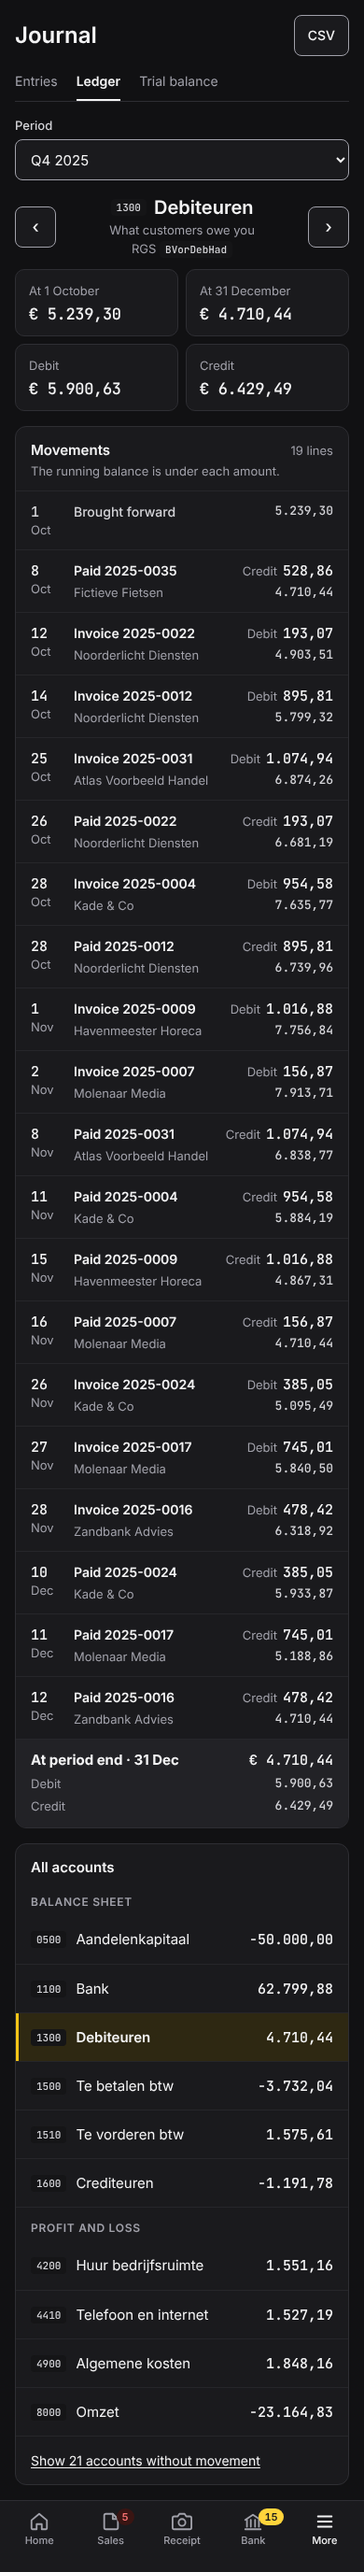
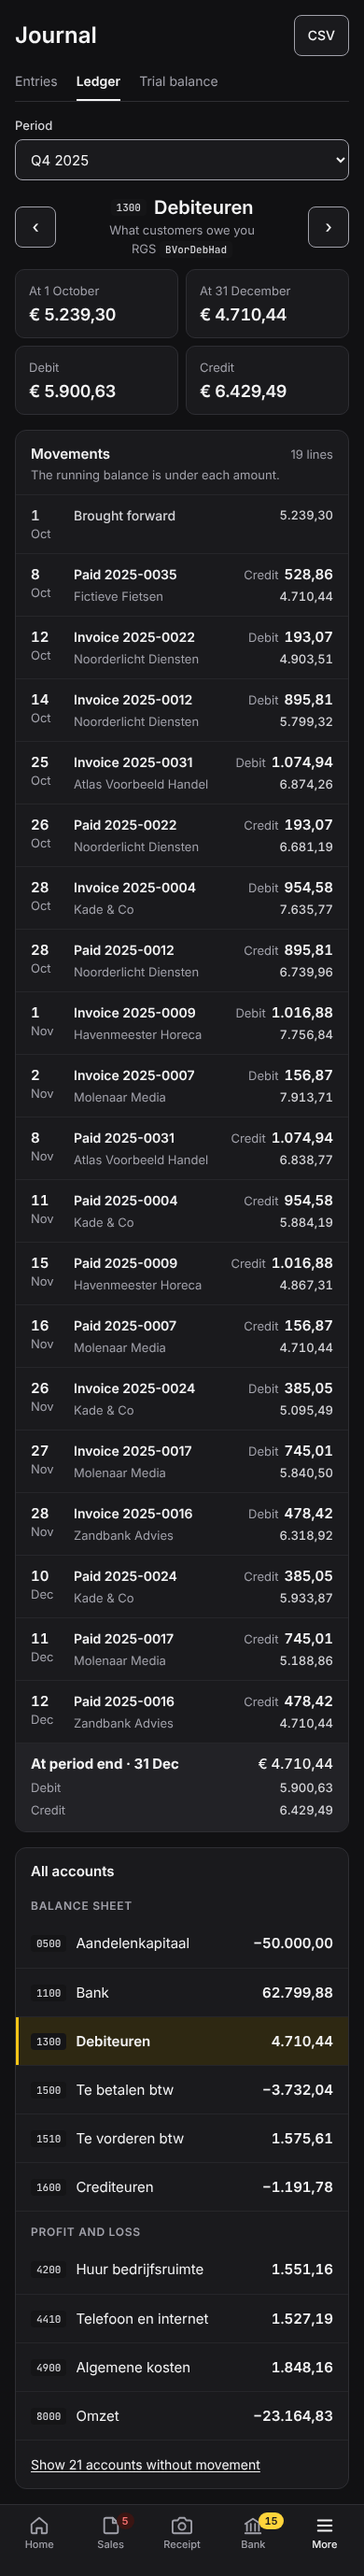
Design #145: Inter tabular amounts on phone, unclipped account names
Phone amounts on PhoneJournal, PhoneEntryNew and PhoneLedger switch from
JetBrains Mono to Inter with tabular figures (k-num nw, as on PhoneCosts
and PhoneBillNew), decided via CoS on 2 Nov. JetBrains Mono stays for
codes only. JournalDark's entry panel lets account names wrap to a second
line, so 1500 Te betalen omzetbelasting is no longer cut off. Re-shot the
nine PNGs (no QA warnings) and updated DERIVED.md and the PhoneLedger
canvas heights.

Refs #145, Refs #140

diff --git a/design/redesign-2026-10/screens/PhoneLedger.dc.html b/design/redesign-2026-10/screens/PhoneLedger.dc.html
@@ -18,7 +18,8 @@
   Takes `theme`; PhoneLedgerDark.dc.html sets dark.
   The tab bar is sticky, so it stays at the bottom of the viewport as the page scrolls.
   A11y deviations (#107 decision 4): control borders on --ink-muted (3:1 or more), 44px targets,
-  no key hints on phone, no ink-faint, amounts in JetBrains Mono and never wrapped,
+  no key hints on phone, no ink-faint, amounts in Inter tabular figures (k-num, as on
+  PhoneCosts) and never wrapped; JetBrains Mono only for codes and hashes,
   self-hosted fonts.
 -->
 <x-dc>
@@ -34,17 +35,17 @@ a{color:var(--ink)}
 .k-phone .k-input{height:44px;font-size:15px}
 .k-phone .k-kbd,.k-phone .k-chord,.k-phone .k-hints{display:none}
 .nw{white-space:nowrap}
-.amt{font:500 15px/20px var(--font-mono);white-space:nowrap;text-align:right}
-.amt-sm{font:500 13px/18px var(--font-mono);white-space:nowrap;color:var(--ink-2)}
+.amt{font-size:15px;line-height:20px;font-weight:600;text-align:right}
+.amt-sm{font-size:13px;line-height:18px;font-weight:500;color:var(--ink-2)}
 .lbl{font-size:13px;line-height:18px;color:var(--ink-muted);white-space:nowrap}
 .ptabs{gap:20px}
 .ptabs .k-tab{min-height:44px;min-width:44px;justify-content:center;box-sizing:border-box;white-space:nowrap}
 .nav-btn{width:44px;height:44px;padding:0;justify-content:center;flex:none;font-size:18px}
 .st{padding:12px 14px;gap:4px;border-radius:var(--radius-lg)}
-.st .k-stat-value{font:500 17px/22px var(--font-mono);white-space:nowrap}
+.st .k-stat-value{font-size:18px;line-height:24px;white-space:nowrap}
 .mv{display:flex;align-items:flex-start;gap:12px;padding:12px 16px;border-top:1px solid var(--line-soft);background:var(--surface);text-decoration:none;color:var(--ink);min-height:60px;box-sizing:border-box}
 .mv-date{width:34px;flex:none;display:flex;flex-direction:column;align-items:flex-start}
-.mv-date b{font:500 15px/20px var(--font-mono)}
+.mv-date b{font-size:15px;line-height:20px;font-weight:600;font-variant-numeric:tabular-nums}
 .mv-main{flex:1;min-width:0;display:flex;flex-direction:column;gap:4px}
 .mv-main strong{font-size:14px;line-height:20px;font-weight:600;white-space:nowrap;overflow:hidden;text-overflow:ellipsis}
 .mv-sub{display:flex;align-items:center;gap:6px;font-size:13px;line-height:18px;color:var(--ink-muted);min-width:0}
@@ -103,19 +104,19 @@ a{color:var(--ink)}
       <div class="mv" style="color: var(--ink-2);">
         <span class="mv-date"><b>1</b><span class="lbl">Oct</span></span>
         <span class="mv-main"><strong style="font-weight: 500;">Brought forward</strong></span>
-        <span class="mv-side"><span class="amt-sm">{{openF}}</span></span>
+        <span class="mv-side"><span class="k-num nw amt-sm">{{openF}}</span></span>
       </div>
       <sc-for list="{{lines}}" as="l" hint-placeholder-count="19">
         <a href="PhoneJournal.dc.html" class="mv">
           <span class="mv-date"><b>{{l.day}}</b><span class="lbl">{{l.mon}}</span></span>
           <span class="mv-main"><strong>{{l.what}}</strong><span class="mv-sub"><span>{{l.who}}</span></span></span>
-          <span class="mv-side"><span class="pair"><span class="lbl">{{l.side}}</span><span class="amt">{{l.amtF}}</span></span><span class="amt-sm">{{l.balF}}</span></span>
+          <span class="mv-side"><span class="pair"><span class="lbl">{{l.side}}</span><span class="k-num nw amt">{{l.amtF}}</span></span><span class="k-num nw amt-sm">{{l.balF}}</span></span>
         </a>
       </sc-for>
       <div style="padding: 12px 16px 14px; border-top: 1px solid var(--line-soft); background: var(--surface-hover); display: flex; flex-direction: column; gap: 6px;">
-        <div style="display: flex; justify-content: space-between; gap: 12px;"><strong style="font-size: 15px;">At period end · <span class="nw">31 Dec</span></strong><span class="amt" style="font-weight: 500;">€ {{closeF}}</span></div>
-        <div style="display: flex; justify-content: space-between; gap: 12px;"><span class="lbl">Debit</span><span class="amt-sm">{{debF}}</span></div>
-        <div style="display: flex; justify-content: space-between; gap: 12px;"><span class="lbl">Credit</span><span class="amt-sm">{{credF}}</span></div>
+        <div style="display: flex; justify-content: space-between; gap: 12px;"><strong style="font-size: 15px;">At period end · <span class="nw">31 Dec</span></strong><span class="k-num nw amt" style="font-weight: 500;">€ {{closeF}}</span></div>
+        <div style="display: flex; justify-content: space-between; gap: 12px;"><span class="lbl">Debit</span><span class="k-num nw amt-sm">{{debF}}</span></div>
+        <div style="display: flex; justify-content: space-between; gap: 12px;"><span class="lbl">Credit</span><span class="k-num nw amt-sm">{{credF}}</span></div>
       </div>
     </section>
 
@@ -123,11 +124,11 @@ a{color:var(--ink)}
       <h2 id="lh" class="k-card-title" style="font-size: 15px; padding: 14px 16px 4px; margin: 0;">All accounts</h2>
       <div class="grp" style="border-top: 0;">Balance sheet</div>
       <sc-for list="{{bs}}" as="a" hint-placeholder-count="6">
-        <a href="#" class="{{a.cls}}" aria-current="{{a.cur}}"><span class="k-code">{{a.no}}</span><span class="acc-name">{{a.name}}</span><span class="amt">{{a.bal}}</span></a>
+        <a href="#" class="{{a.cls}}" aria-current="{{a.cur}}"><span class="k-code">{{a.no}}</span><span class="acc-name">{{a.name}}</span><span class="k-num nw amt">{{a.bal}}</span></a>
       </sc-for>
       <div class="grp">Profit and loss</div>
       <sc-for list="{{pl}}" as="a" hint-placeholder-count="4">
-        <a href="#" class="acc"><span class="k-code">{{a.no}}</span><span class="acc-name">{{a.name}}</span><span class="amt">{{a.bal}}</span></a>
+        <a href="#" class="acc"><span class="k-code">{{a.no}}</span><span class="acc-name">{{a.name}}</span><span class="k-num nw amt">{{a.bal}}</span></a>
       </sc-for>
       <a href="#" class="acc" style="font-size: 14px;"><span class="acc-name" style="text-decoration: underline; text-underline-offset: 2px;">Show 21 accounts without movement</span></a>
     </nav>

diff --git a/design/redesign-2026-10/screens/PhoneEntryNew.dc.html b/design/redesign-2026-10/screens/PhoneEntryNew.dc.html
@@ -20,7 +20,8 @@
   table has column headers (the md:sr-only pattern). The description is a two-line field so it is
   never cut off, and account 1510 shows its ledger name, "Te vorderen btw", as on Ledger.
   A11y deviations (#107 decision 4): control borders on --ink-muted (3:1 or more), 44px targets,
-  no key hints on phone, no ink-faint, amounts in JetBrains Mono and never wrapped,
+  no key hints on phone, no ink-faint, amounts in Inter tabular figures (k-num, as on
+  PhoneCosts) and never wrapped; JetBrains Mono only for codes and hashes,
   self-hosted fonts.
 -->
 <x-dc>
@@ -36,8 +37,8 @@ a{color:var(--ink)}
 .k-phone .k-kbd,.k-phone .k-chord,.k-phone .k-hints{display:none}
 .nw{white-space:nowrap}
 @media (min-width: 768px){.md-sr{position:absolute;width:1px;height:1px;padding:0;margin:-1px;overflow:hidden;clip:rect(0,0,0,0);white-space:nowrap;border:0}}
-.amt{font:500 15px/20px var(--font-mono);white-space:nowrap;text-align:right}
-.k-phone .amt-in{font:500 15px var(--font-mono);text-align:right}
+.amt{font-size:15px;line-height:20px;font-weight:600;text-align:right}
+.k-phone .amt-in{text-align:right;font-weight:500}
 .amt-in.is-focus{outline:2px solid var(--selection-edge);outline-offset:-2px;background:var(--brand-tint)}
 .lc{padding:12px 16px 16px;display:flex;flex-direction:column;gap:12px}
 .lc-head{display:flex;align-items:center;justify-content:space-between;margin:-4px -8px -4px 0}
@@ -93,8 +94,8 @@ a{color:var(--ink)}
         <input id="d1" class="k-input" value="Card payment, receipt to follow">
       </div>
       <div class="dc">
-        <div class="k-field"><label class="k-label md-sr" for="db1">Debit</label><input id="db1" class="k-input amt-in" inputmode="decimal" value="30,58"></div>
-        <div class="k-field"><label class="k-label md-sr" for="cr1">Credit</label><input id="cr1" class="k-input amt-in" inputmode="decimal" value=""></div>
+        <div class="k-field"><label class="k-label md-sr" for="db1">Debit</label><input id="db1" class="k-input k-num amt-in" inputmode="decimal" value="30,58"></div>
+        <div class="k-field"><label class="k-label md-sr" for="cr1">Credit</label><input id="cr1" class="k-input k-num amt-in" inputmode="decimal" value=""></div>
       </div>
     </section>
     <section class="k-card lc" aria-labelledby="l2">
@@ -111,8 +112,8 @@ a{color:var(--ink)}
         <input id="d2" class="k-input" value="21% VAT, code VH21">
       </div>
       <div class="dc">
-        <div class="k-field"><label class="k-label md-sr" for="db2">Debit</label><input id="db2" class="k-input amt-in" inputmode="decimal" value="6,42"></div>
-        <div class="k-field"><label class="k-label md-sr" for="cr2">Credit</label><input id="cr2" class="k-input amt-in" inputmode="decimal" value=""></div>
+        <div class="k-field"><label class="k-label md-sr" for="db2">Debit</label><input id="db2" class="k-input k-num amt-in" inputmode="decimal" value="6,42"></div>
+        <div class="k-field"><label class="k-label md-sr" for="cr2">Credit</label><input id="cr2" class="k-input k-num amt-in" inputmode="decimal" value=""></div>
       </div>
     </section>
     <section class="k-card lc" aria-labelledby="l3">
@@ -129,15 +130,15 @@ a{color:var(--ink)}
         <input id="d3" class="k-input" value="Demo bankrekening ··· 0001">
       </div>
       <div class="dc">
-        <div class="k-field"><label class="k-label md-sr" for="db3">Debit</label><input id="db3" class="k-input amt-in" inputmode="decimal" value=""></div>
-        <div class="k-field"><label class="k-label md-sr" for="cr3">Credit</label><input id="cr3" class="k-input amt-in is-focus" inputmode="decimal" value="=37,00"></div>
+        <div class="k-field"><label class="k-label md-sr" for="db3">Debit</label><input id="db3" class="k-input k-num amt-in" inputmode="decimal" value=""></div>
+        <div class="k-field"><label class="k-label md-sr" for="cr3">Credit</label><input id="cr3" class="k-input k-num amt-in is-focus" inputmode="decimal" value="=37,00"></div>
       </div>
     </section>
     <button type="button" class="k-btn k-btn--dashed" style="height: 44px; justify-content: center;">+ Add a line</button>
 
     <section class="k-card" aria-label="Totals" style="padding: 16px; display: flex; flex-direction: column; gap: 8px;">
-      <div class="kv"><span class="k-muted">Total debit</span><span class="amt">€ 37,00</span></div>
-      <div class="kv"><span class="k-muted">Total credit</span><span class="amt">€ 37,00</span></div>
+      <div class="kv"><span class="k-muted">Total debit</span><span class="k-num nw amt">€ 37,00</span></div>
+      <div class="kv"><span class="k-muted">Total credit</span><span class="k-num nw amt">€ 37,00</span></div>
       <span style="display: inline-flex; align-items: center; gap: 6px; color: var(--success); font-weight: 500; padding-top: 4px;"><svg width="16" height="16" viewBox="0 0 24 24" fill="none" stroke="currentColor" stroke-width="2.4" stroke-linecap="round" stroke-linejoin="round" aria-hidden="true" style="flex: none;"><path d="M20 6 9 17l-5-5"/></svg>Balances: debit and credit are equal</span>
     </section>
 

diff --git a/design/redesign-2026-10/screens/PhoneJournal.dc.html b/design/redesign-2026-10/screens/PhoneJournal.dc.html
@@ -17,7 +17,8 @@
   the active tab. Takes `theme`; PhoneJournalDark.dc.html sets dark.
   The tab bar is sticky, so it stays at the bottom of the viewport as the page scrolls.
   A11y deviations (#107 decision 4): control borders on --ink-muted (3:1 or more), 44px targets,
-  no key hints on phone, no ink-faint, amounts in JetBrains Mono and never wrapped,
+  no key hints on phone, no ink-faint, amounts in Inter tabular figures (k-num, as on
+  PhoneCosts) and never wrapped; JetBrains Mono only for codes and hashes,
   self-hosted fonts.
 -->
 <x-dc>
@@ -36,7 +37,7 @@ a{color:var(--ink)}
 .k-phone .k-kbd,.k-phone .k-chord,.k-phone .k-hints{display:none}
 .k-phone .k-input{height:44px;font-size:15px}
 .nw{white-space:nowrap}
-.amt{font:500 15px/20px var(--font-mono);white-space:nowrap;text-align:right}
+.amt{font-size:15px;line-height:20px;font-weight:600;text-align:right}
 .lbl{font-size:13px;line-height:18px;color:var(--ink-muted);white-space:nowrap}
 .ptabs{gap:20px}
 .ptabs .k-tab{min-height:44px;min-width:44px;justify-content:center;box-sizing:border-box;white-space:nowrap}
@@ -84,14 +85,14 @@ a{color:var(--ink)}
       <sc-for list="{{s.lines}}" as="l" hint-placeholder-count="3">
         <a href="PhoneLedger.dc.html" class="ln">
           <span class="ln-acc"><span class="k-code">{{l.no}}</span><span>{{l.name}}</span></span>
-          <span class="ln-side"><span class="lbl">{{l.side}}</span><span class="amt">{{l.amt}}</span></span>
+          <span class="ln-side"><span class="lbl">{{l.side}}</span><span class="k-num nw amt">{{l.amt}}</span></span>
         </a>
       </sc-for>
       <div class="ln" style="background: var(--surface-hover); align-items: flex-start;">
         <span class="ln-acc" style="font-weight: 600; padding-top: 2px;">Balances</span>
         <span class="ln-side" style="gap: 2px;">
-          <span style="display: flex; gap: 8px; align-items: baseline;"><span class="lbl">Debit</span><span class="amt">{{s.amtF}}</span></span>
-          <span style="display: flex; gap: 8px; align-items: baseline;"><span class="lbl">Credit</span><span class="amt">{{s.amtF}}</span></span>
+          <span style="display: flex; gap: 8px; align-items: baseline;"><span class="lbl">Debit</span><span class="k-num nw amt">{{s.amtF}}</span></span>
+          <span style="display: flex; gap: 8px; align-items: baseline;"><span class="lbl">Credit</span><span class="k-num nw amt">{{s.amtF}}</span></span>
         </span>
       </div>
       <dl class="k-dl" style="padding: 16px; border-top: 1px solid var(--line-soft); font-size: 13px; grid-template-columns: max-content 1fr;">
@@ -115,7 +116,7 @@ a{color:var(--ink)}
       <sc-for list="{{rows}}" as="r" hint-placeholder-count="17">
         <button type="button" class="ic" aria-selected="{{r.sel}}" onClick="{{r.pick}}">
           <span class="ic-main"><strong>{{r.who}}</strong><span class="ic-sub"><span class="k-code">{{r.j}}</span><span>{{r.what}}</span></span></span>
-          <span class="ic-side"><span class="amt">€ {{r.amtF}}</span><span class="lbl">#{{r.n}} · {{r.dateShort}}</span></span>
+          <span class="ic-side"><span class="k-num nw amt">€ {{r.amtF}}</span><span class="lbl">#{{r.n}} · {{r.dateShort}}</span></span>
         </button>
       </sc-for>
       <div style="display: flex; justify-content: space-between; gap: 12px; padding: 12px 16px; border-top: 1px solid var(--line-soft); font-size: 13px; color: var(--ink-muted);">

diff --git a/design/redesign-2026-10/screens/JournalDark.dc.html b/design/redesign-2026-10/screens/JournalDark.dc.html
@@ -14,7 +14,8 @@
   because on Hidde's board the entry panel is narrower than its Account, Debit and Credit grid, so
   the Credit column is cut off at 1440; other entries show "[net]" and "[VAT]" placeholders; the
   first entry shows a dash for "chained to"; and it loads Google Fonts. Here the panel is 420px
-  wide, the list columns and the Debit and Credit columns are a little narrower, every sales entry splits into revenue and 21% VAT, the memorial entry is posted by the
+  wide, the list columns and the Debit and Credit columns are a little narrower, account names wrap to
+  a second line instead of being cut off, every sales entry splits into revenue and 21% VAT, the memorial entry is posted by the
   sample user and chained to "genesis" with no dash, and the count line says 17 shown. Links go
   to the dark boards.
   Takes `theme` (default dark).
@@ -33,7 +34,7 @@ a{color:var(--ink)}a:hover{color:var(--ink)}
 .k-search input::placeholder{color:var(--ink-muted)}
 .nw{white-space:nowrap}
 .jgrid{display:grid;grid-template-columns:36px 84px minmax(180px,1fr) 52px 100px;gap:12px}
-.lgrid{display:grid;grid-template-columns:minmax(150px,1fr) 96px 96px;gap:12px;padding:10px 24px;border-top:1px solid var(--line-soft)}
+.lgrid{display:grid;grid-template-columns:minmax(150px,1fr) 96px 96px;gap:12px;align-items:start;padding:10px 24px;border-top:1px solid var(--line-soft)}
 </style>
 </helmet>
 <div class="k-root" data-theme="{{theme}}" style="display: flex; flex-wrap: wrap; min-height: 1040px;">
@@ -101,7 +102,7 @@ a{color:var(--ink)}a:hover{color:var(--ink)}
         </div>
         <div class="lgrid" style="border-top: 0; background: var(--surface-hover); font: 600 12px/16px var(--font-sans); letter-spacing: .04em; text-transform: uppercase; color: var(--ink-muted);"><span>Account</span><span style="text-align: right;">Debit</span><span style="text-align: right;">Credit</span></div>
         <sc-for list="{{s.lines}}" as="l" hint-placeholder-count="3">
-          <a href="LedgerDark.dc.html" class="lgrid k-num" style="text-decoration: none; color: var(--ink);"><span style="display: flex; gap: 8px; align-items: center; min-width: 0;"><span class="k-code">{{l.no}}</span><span style="overflow: hidden; text-overflow: ellipsis; white-space: nowrap;">{{l.name}}</span></span><span style="text-align: right;">{{l.d}}</span><span style="text-align: right;">{{l.c}}</span></a>
+          <a href="LedgerDark.dc.html" class="lgrid k-num" style="text-decoration: none; color: var(--ink);"><span style="display: flex; gap: 8px; align-items: flex-start; min-width: 0;"><span class="k-code" style="flex: none; margin-top: 1px;">{{l.no}}</span><span style="min-width: 0; line-height: 20px;">{{l.name}}</span></span><span style="text-align: right;">{{l.d}}</span><span style="text-align: right;">{{l.c}}</span></a>
         </sc-for>
         <div class="lgrid k-num" style="font-weight: 600; background: var(--surface-hover);"><span>Balances</span><span style="text-align: right;">{{s.amtF}}</span><span style="text-align: right;">{{s.amtF}}</span></div>
         <dl class="k-dl" style="padding: 16px 24px; border-top: 1px solid var(--line-soft); font-size: 13px;">

diff --git a/design/redesign-2026-10/DERIVED.md b/design/redesign-2026-10/DERIVED.md
@@ -24,7 +24,7 @@ All twelve boards are registered in `canvas.json` (note `t145` at y 26700, board
 
 `LedgerDark` is a thin wrapper, like `HomeDark`, because Hidde's markup is right in dark once the control border token is fixed (the same override as `VatDark`). `JournalDark` and `EntryNewDark` are copies, because his light boards have things these rules don't allow, and editing his files is out of scope here:
 
-- `Journal`: the entry panel is 380px wide, but its Account, Debit and Credit grid needs about 420px, so the Credit column is cut off at 1440. Every sales entry except 17 shows `[net]` and `[VAT]` as its revenue and VAT amounts, the opening entry is posted by `owner@demo.invalid`, entry 1 shows a dash for "chained to", and the count line says 16 shown while 17 rows are drawn. `JournalDark` has a 420px panel with 96px Debit and Credit columns and slightly narrower list columns, splits every sales entry into revenue and 21% VAT, uses `eva@bakkerij.example`, says "genesis · first entry", and "Showing 17 of 216".
+- `Journal`: the entry panel is 380px wide, but its Account, Debit and Credit grid needs about 420px, so the Credit column is cut off at 1440. Every sales entry except 17 shows `[net]` and `[VAT]` as its revenue and VAT amounts, the opening entry is posted by `owner@demo.invalid`, entry 1 shows a dash for "chained to", and the count line says 16 shown while 17 rows are drawn. `JournalDark` has a 420px panel with 96px Debit and Credit columns and slightly narrower list columns, lets account names wrap to a second line ("1500 Te betalen omzetbelasting" is no longer cut off), splits every sales entry into revenue and 21% VAT, uses `eva@bakkerij.example`, says "genesis · first entry", and "Showing 17 of 216".
 - `EntryNew`: the line cells have no border of their own, only a `--line-soft` divider (about 1.2:1), and the breadcrumb slash is `ink-faint`. In `EntryNewDark` each cell is a bordered input inside its row (`--ink-muted`, 32px tall, 48px rows), the slash is `ink-muted`, and the Journal crumb is an underlined ink link.
 
 Both also load Google Fonts; the copies load `../design-system/fonts/fonts.css`, and their links point to the dark boards. Hidde's light boards still have these issues and should get the same fixes in whichever PR owns them.
@@ -35,7 +35,7 @@ Both also load Google Fonts; the copies load `../design-system/fonts/fonts.css`,
 - In dark, key hints in a primary button are outlined in `--on-primary` (desktop only; phones show no key hints).
 - Links are ink and underlined. No `ink-faint` for text. No new status colours: `Posted` is the `--paid` pill and "Balances" is `success`, as on Hidde's boards.
 - Phone: `.k-phone` at 390, Hidde's five-tab bar with More active (Journal lives under More), sticky at the bottom. No key hints, chips or keycaps. Targets are 44px or more; list rows 56 to 60px; EntryNew's Post and Post and next are 48px in a sticky bar above the tab bar.
-- Phone amounts are JetBrains Mono 500, right-aligned and `nowrap`. Dates on phone read "28 Nov"; the book year is in the list footer.
+- Amounts are Inter with tabular figures (`.k-num`, with `nw` so they never wrap), right-aligned, the same class as `PhoneCosts` and `PhoneBillNew` and Hidde's desktop boards; decided via CoS on 2 Nov 2026. JetBrains Mono is only for codes: account numbers, journal codes, RGS codes and fingerprints (`.k-code`). Dates on phone read "28 Nov"; the book year is in the list footer.
 - EntryNew phone labels (Account, Line description, Debit, Credit) are visible on every line card. They carry `md-sr`, which hides them visually from 768px up, where the desktop table has column headers (the `md:sr-only` pattern). No input relies on an `aria-label` alone.
 - Sample user: Eva (`eva@bakkerij.example`). Companies and accounts are Hidde's demo fixtures.
 - `shoot.mjs` printed no QA warnings for the nine shots.
@@ -49,7 +49,6 @@ Both also load Google Fonts; the copies load `../design-system/fonts/fonts.css`,
 - **Ledger tab label.** On phone the tab is "Ledger" (desktop "Ledger per account"); Trial balance points to `#`, because Reports has no phone board yet.
 - **Ledger phone.** Previous and next buttons around the account name instead of the account side panel (desktop `[` and `]`), with the side panel moved under the movements as "All accounts" and "Show 21 accounts without movement" as an underlined link. The four totals are a 2 by 2 grid, the two balances first. Each movement has the day and month on the left, "Invoice 2025-0022" (VRK) or "Paid 2025-0035" (BNK) with the contact under it, Debit or Credit with the amount on the right, and the running balance under it, with one line above the list that says so. Journal code chips are left off the phone rows. CSV stays as a button.
 - **EntryNew phone.** Each line is a card ("Line 1" with a 44px remove button). The description is a two-line field so it isn't cut off. Account 1510 shows its ledger name "Te vorderen btw", as on `Ledger`; Hidde's `EntryNew` calls it "Terug te vorderen omzetbelasting", so his two boards disagree. The "=" state of line 3 keeps Hidde's yellow outline on `brand-tint`; the field's own `--ink-muted` border stays under it, so the 3:1 edge holds. The new intro line is "Debit and credit must be equal before you can post." The "Posting is final" text is shorter and drops the fingerprint clause. The document card has Take a photo and Choose a file, as on `PhoneBillNew`. The back link replaces Cancel.
-- **Mono amounts on phone.** The brief for #145 asks for amounts in JetBrains Mono on phone. Hidde's desktop boards and the earlier phone boards (`PhoneCosts`, `PhoneBillNew`) use Inter with tabular figures (`.k-num`), so this batch is the odd one out. Switching the three phone boards back to Inter is a one-class change (`.amt`, `.amt-sm`, `.amt-in`).
 
 ### Contrast (WCAG 2.x)
 
